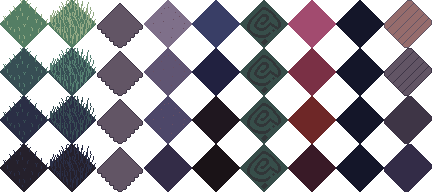
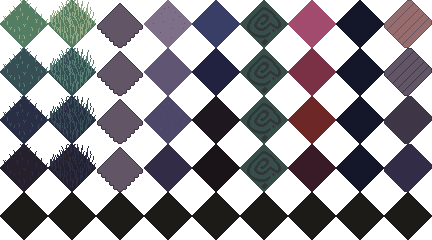
saving

diff --git a/bleed-client/lib/mappers/mapEnvironmentObjectToShadedImage.dart b/bleed-client/lib/mappers/mapEnvironmentObjectToShadedImage.dart
@@ -6,14 +6,13 @@ import 'package:bleed_client/enums/Shading.dart';
 import 'package:bleed_client/images.dart';
 import 'package:bleed_client/watches/ambientLight.dart';
 
-Image mapEnvironmentObjectToToShadedImage(EnvironmentObject environmentObject, Shade shade) {
+Image mapEnvironmentObjectToToShadedImage(
+    EnvironmentObject environmentObject, Shade shade) {
 
-  try {
-    if (typeShades.containsKey(environmentObject.type)) {
-      return typeShades[environmentObject.type][shade.index];
-    }
-  }catch(e){
-    print('failed to map $environmentObject for shade $shade');
+  if (shade == Shade.PitchBlack) return images.empty;
+
+  if (typeShades.containsKey(environmentObject.type)) {
+    return typeShades[environmentObject.type][shade.index];
   }
 
   if (environmentObject.type == EnvironmentObjectType.House01) {
@@ -25,11 +24,11 @@ Image mapEnvironmentObjectToToShadedImage(EnvironmentObject environmentObject, S
     }
   }
 
-  if (environmentObject.type == EnvironmentObjectType.Torch){
+  if (environmentObject.type == EnvironmentObjectType.Torch) {
     return images.torch;
   }
 
-  if (environmentObject.type == EnvironmentObjectType.House01){
+  if (environmentObject.type == EnvironmentObjectType.House01) {
     switch (ambientLight) {
       case Shade.Bright:
         return images.houseDay;
@@ -38,7 +37,7 @@ Image mapEnvironmentObjectToToShadedImage(EnvironmentObject environmentObject, S
     }
   }
 
-  if (environmentObject.type == EnvironmentObjectType.House02){
+  if (environmentObject.type == EnvironmentObjectType.House02) {
     return images.house02;
   }
 

diff --git a/bleed-client/lib/render/functions/applyLightBright.dart b/bleed-client/lib/render/functions/applyLightBright.dart
@@ -9,6 +9,7 @@ void applyLightBrightMedium(List<List<Shade>> shader, double x, double y) {
   applyShadeRing(shader, row, column, 1, Shade.Bright);
   applyShadeRing(shader, row, column, 2, Shade.Medium);
   applyShadeRing(shader, row, column, 3, Shade.Dark);
+  applyShadeRing(shader, row, column, 4, Shade.VeryDark);
 }
 
 void applyLightBrightSmall(List<List<Shade>> shader, double x, double y) {
@@ -17,4 +18,5 @@ void applyLightBrightSmall(List<List<Shade>> shader, double x, double y) {
   applyShade(shader, row, column, Shade.Medium);
   applyShadeRing(shader, row, column, 1, Shade.Medium);
   applyShadeRing(shader, row, column, 2, Shade.Dark);
+  applyShadeRing(shader, row, column, 3, Shade.VeryDark);
 }

diff --git a/bleed-client/lib/render/drawParticle.dart b/bleed-client/lib/render/drawParticle.dart
@@ -13,17 +13,17 @@ import 'package:lemon_math/adjacent.dart';
 import 'package:lemon_math/opposite.dart';
 import 'package:lemon_math/random_between.dart';
 
-import '../maths.dart';
 import '../utils.dart';
 
 const _headSize = 5.0;
 
 void drawParticle(Particle particle){
-  double x = particle.x;
-  double y = particle.y;
 
   Shade shading = getShadeAtPosition(particle.x, particle.y);
-  if (shading == Shade.VeryDark) return;
+  if (shading.index >= Shade.VeryDark.index) return;
+
+  double x = particle.x;
+  double y = particle.y;
 
   double scaleShift = (1 + (particle.z * 0.4)) * particle.scale;
   double heightShift = -particle.z * 20;

diff --git a/bleed-client/lib/render/drawCharacterMan.dart b/bleed-client/lib/render/drawCharacterMan.dart
@@ -9,8 +9,9 @@ import 'package:lemon_engine/queries/on_screen.dart';
 import 'package:lemon_engine/render/draw_image_rect.dart';
 
 void drawCharacterMan(Character character) {
-  if (!character.alive && isWaterAt(character.x, character.y)) return;
   if (!onScreen(character.x, character.y)) return;
+  if (!character.alive && isWaterAt(character.x, character.y)) return;
+  if (getShadeAtPosition(character.x, character.y).index >= Shade.PitchBlack.index) return;
 
   Shade shading = getShadeAtPosition(character.x, character.y);
 

diff --git a/bleed-client/lib/render/drawCharacterZombie.dart b/bleed-client/lib/render/drawCharacterZombie.dart
@@ -11,7 +11,7 @@ import 'package:lemon_engine/render/draw_image_rect.dart';
 void drawCharacterZombie(Character character) {
   if (!character.alive && isWaterAt(character.x, character.y)) return;
   if (!onScreen(character.x, character.y)) return;
-  if (getShadeAtPosition(character.x, character.y) == Shade.VeryDark) return;
+  if (getShadeAtPosition(character.x, character.y).index >= Shade.VeryDark.index) return;
 
   drawImageRect(
     mapCharacterToImageZombie(

diff --git a/bleed-client/lib/functions/applyLightMedium.dart b/bleed-client/lib/functions/applyLightMedium.dart
@@ -7,5 +7,6 @@ void applyLightMedium(List<List<Shade>> shader, double x, double y) {
   int row = getRow(x, y);
   applyShade(shader, row, column, Shade.Medium);
   applyShadeRing(shader, row, column, 1, Shade.Medium);
-  applyShadeRing(shader, row, column, 3, Shade.Dark);
+  applyShadeRing(shader, row, column, 2, Shade.Dark);
+  applyShadeRing(shader, row, column, 3, Shade.VeryDark);
 }

diff --git a/bleed-client/lib/render/drawCanvas.dart b/bleed-client/lib/render/drawCanvas.dart
@@ -69,9 +69,9 @@ void renderCanvasPlay() {
 
   if (!dayTime) {
     resetDynamicShadesToBakeMap();
-    calculateTileSrcRects();
     applyCharacterLightEmission(game.humans);
     applyCharacterLightEmission(game.interactableNpcs);
+    calculateTileSrcRects();
     applyLightingToEnvironmentObjects();
   }
 

diff --git a/bleed-client/lib/draw.dart b/bleed-client/lib/draw.dart
@@ -232,9 +232,7 @@ void drawCircleOutline(
 
 void drawTiles() {
   // TODO Optimization: Null checks are expensive
-  if (images.tilesLight == null) return;
   if (game.tiles == null || game.tiles.isEmpty) return;
-  if (tileTransforms.length != tileRects.length) return;
   drawTileList();
 }
 

diff --git a/bleed-client/lib/getters/inDarkness.dart b/bleed-client/lib/getters/inDarkness.dart
@@ -3,5 +3,5 @@ import 'package:bleed_client/enums/Shading.dart';
 import 'package:bleed_client/getters/getShading.dart';
 
 bool inDarkness(double x, double y){
-  return getShadeAtPosition(x, y) == Shade.VeryDark;
+  return getShadeAtPosition(x, y).index >= Shade.VeryDark.index;
 }

diff --git a/bleed-client/lib/mappers/mapHourToPhase.dart b/bleed-client/lib/mappers/mapHourToPhase.dart
@@ -1,6 +1,7 @@
 import 'package:bleed_client/enums/Phase.dart';
 
 Phase mapHourToPhase(int hour) {
+  if (hour < 2) return Phase.MidNight;
   if (hour < 4) return Phase.Night;
   if (hour < 6) return Phase.EarlyMorning;
   if (hour < 10) return Phase.Morning;

diff --git a/bleed-client/lib/events/onPhaseChanged.dart b/bleed-client/lib/events/onPhaseChanged.dart
@@ -23,5 +23,8 @@ void updateAmbientLight(Phase phase){
     case Phase.Night:
       setAmbientLightVeryDark();
       break;
+    case Phase.MidNight:
+      setAmbientLightPitchBlack();
+      break;
   }
 }

diff --git a/bleed-client/lib/watches/ambientLight.dart b/bleed-client/lib/watches/ambientLight.dart
@@ -28,3 +28,7 @@ void setAmbientLightDark(){
 void setAmbientLightVeryDark(){
   ambientLight = Shade.VeryDark;
 }
+
+void setAmbientLightPitchBlack(){
+  ambientLight = Shade.PitchBlack;
+}
